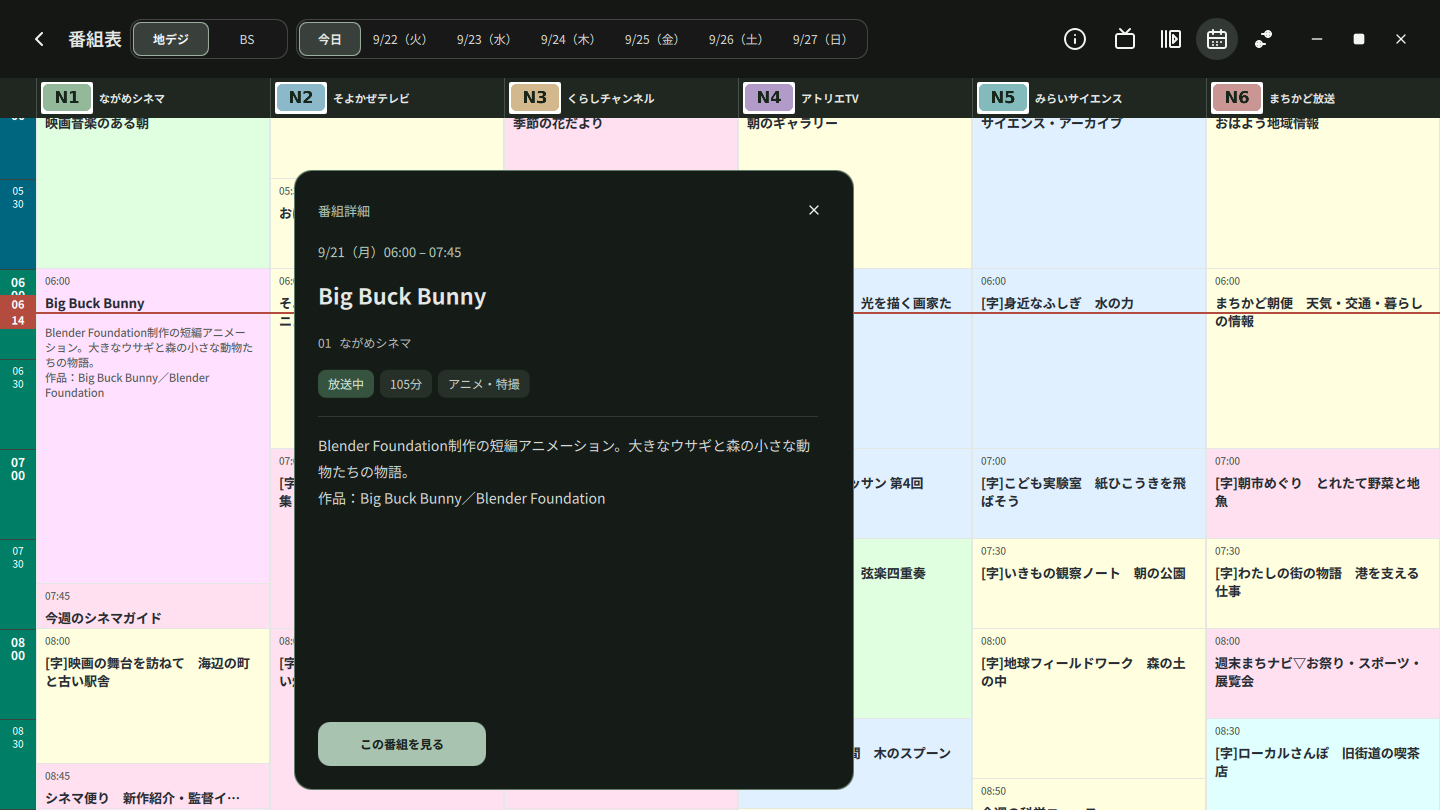
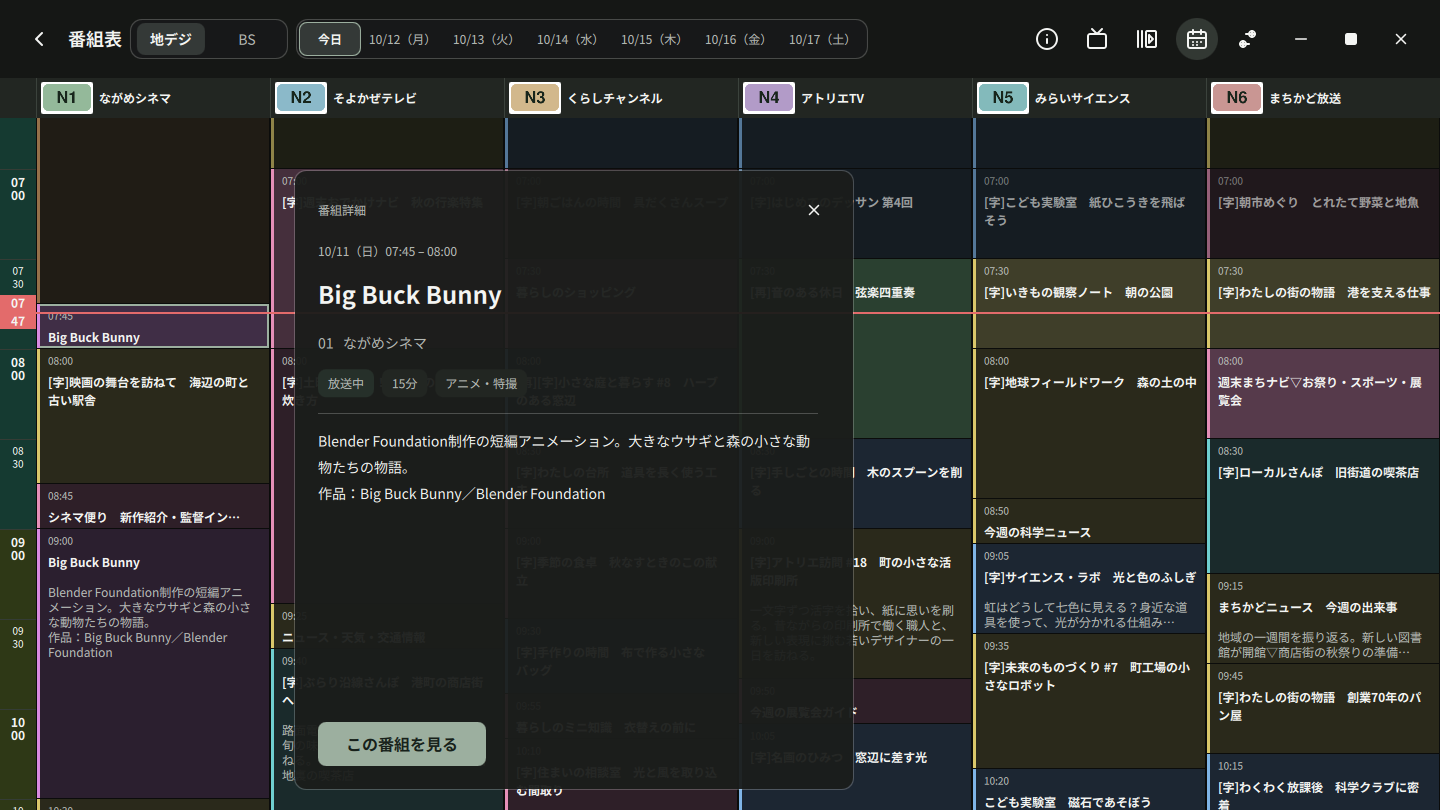
Bring the program guide onto the dark application surfaces
The guide was the only screen with light program cells, so opening it
from playback, recordings or settings changed the brightness of the
whole window, which is harsh during evening viewing. Keep each genre's
conventional hue as a bright marker on a dark tint of the same hue, and
darken the time bands the same way.

The grid also gave no cue about time: programs that had ended looked the
same as those on air. Brighten programs on air and let finished ones
recede, derived from the minute so the per-second clock does not
re-evaluate every cell.

After scrolling there was no way back to the current time short of
switching days. Choosing the day already shown now returns to its
opening position.

This departs from the light Mirakurun-style palette in the Penpot guide
frames, which have not been updated; docs/guide-calendar.md records the
difference. The two guide screenshots are recaptured to match.

diff --git a/rust/qml/GuideTimeline.qml b/rust/qml/GuideTimeline.qml
@@ -47,6 +47,8 @@ Item {
     readonly property int timeBandHours: 3
     readonly property var timeBandColors: GuidePalette.timeBands
     property double now: Date.now()
+    // Cell states follow the minute; the per-second clock would re-evaluate every cell.
+    readonly property double currentMinute: Math.floor(now / 60000) * 60000
     readonly property bool today: now >= dayStart && now < dayEnd
     readonly property real currentTimeY: channelHeaderHeight + (now - dayStart) / 60000 * pixelsPerMinute
     // Boundary bindings can update separately during a date change.
@@ -123,6 +125,10 @@ Item {
     function genreColor(genre) {
         const colors = GuidePalette.genres
         return Number.isInteger(genre) && genre >= 0 && genre < colors.length ? colors[genre] : GuidePalette.defaultGenre
+    }
+    function genreMarker(genre) {
+        const colors = GuidePalette.genreMarkers
+        return Number.isInteger(genre) && genre >= 0 && genre < colors.length ? colors[genre] : GuidePalette.defaultMarker
     }
     function scrollHorizontally(event) {
         const delta = event.angleDelta.y || event.angleDelta.x
@@ -305,7 +311,17 @@ Item {
                                     : slot.name || qsTranslate("Viewer", "No program information")
                                 width: slot.width; height: slot.height
                                 clip: true
-                                color: root.genreColor(slot.genre)
+                                readonly property bool onAir: slot.begin <= root.currentMinute && root.currentMinute < slot.end
+                                readonly property bool finished: slot.end <= root.currentMinute
+                                readonly property color genreFill: root.genreColor(slot.genre)
+                                color: cellPointer.containsMouse ? Qt.lighter(genreFill, GuidePalette.onAirLightness * GuidePalette.hoverLightness)
+                                    : onAir ? Qt.lighter(genreFill, GuidePalette.onAirLightness) : genreFill
+                                opacity: finished && !highlighted ? GuidePalette.finishedOpacity : 1
+                                Rectangle {
+                                    objectName: "guideGenreMarker"
+                                    width: GuidePalette.markerWidth; height: parent.height
+                                    color: root.genreMarker(slot.genre)
+                                }
                                 readonly property bool highlighted: (!!root.selectedProgram && slot.watchKey === root.selectedProgram.watchKey)
                                     || (root.activeFocus && column.index === root.cursorColumn && root.cursorKey.length > 0 && slot.watchKey === root.cursorKey)
                                 border.width: highlighted ? 2 : 0
@@ -314,8 +330,8 @@ Item {
                                     objectName: "guideShortProgram"
                                     font.family: root.programFontFamily
                                     visible: cell.layoutMode === GuideTimeline.OneLine
-                                    x: root.cellPadding - root.textSpacing
-                                    width: parent.width - x * 2; height: parent.height
+                                    x: root.cellPadding + GuidePalette.markerWidth - root.textSpacing
+                                    width: parent.width - x - root.cellPadding; height: parent.height
                                     text: cell.startLabel + " " + cell.title
                                     textFormat: Text.PlainText; elide: Text.ElideRight
                                     color: GuidePalette.programText; font.pixelSize: Theme.fontCaption; font.weight: Font.Medium
@@ -324,7 +340,7 @@ Item {
                                 Item {
                                     visible: cell.layoutMode === GuideTimeline.Full
                                     anchors.fill: parent
-                                    anchors.leftMargin: root.cellPadding; anchors.rightMargin: root.cellPadding
+                                    anchors.leftMargin: root.cellPadding + GuidePalette.markerWidth; anchors.rightMargin: root.cellPadding
                                     anchors.topMargin: root.cellTopPadding; anchors.bottomMargin: root.cellTopPadding
                                     Text {
                                         id: startLabel
@@ -358,7 +374,7 @@ Item {
                                         maximumLineCount: Math.max(1, Math.floor(height / descriptionLineHeight))
                                     }
                                 }
-                                MouseArea { anchors.fill: parent; onClicked: {
+                                MouseArea { id: cellPointer; anchors.fill: parent; hoverEnabled: true; onClicked: {
                                     root.cursorColumn = column.index
                                     root.cursorKey = slot.watchKey
                                     root.cursorTime = slot.begin

diff --git a/rust/qml/tests/tst_ProgramGuide.qml b/rust/qml/tests/tst_ProgramGuide.qml
@@ -374,6 +374,31 @@ TestCase {
         timeline.now = timeline.dayStart - 1
         verify(!badge.visible)
     }
+    function test_selected_day_returns_to_opening_position() {
+        const view = findChild(guide, "guideTimeline")
+        const timeline = view.parent
+        const selector = findChild(guide, "guideDay")
+        timeline.now = timeline.dayStart + 12 * 3600000
+        timeline.resetPosition()
+        const opening = view.contentY
+        verify(opening > 0)
+        view.contentY = 0
+        selector.forceActiveFocus()
+        keyClick(Qt.Key_Return)
+        compare(view.contentY, opening)
+        compare(guide.dayOffset, 0)
+        selector.compact = true
+        verify(waitForRendering(selector))
+        view.contentY = 0
+        mouseClick(findChild(selector, "currentGuideDay"))
+        compare(view.contentY, opening)
+        selector.compact = false
+        verify(waitForRendering(selector))
+        view.contentY = 0
+        mouseClick(findChild(selector, "guideDate0"))
+        compare(view.contentY, opening)
+        compare(guide.dayOffset, 0)
+    }
     function test_seven_calendar_days_and_selection() {
         compare(guide.days.length, 7)
         verify(guide.requests.length > 0)
@@ -734,10 +759,26 @@ TestCase {
         compare(findChild(guide, "guideColumn29"), null)
         const first = findChild(guide, "guideCell")
         verify(first !== null)
-        compare(first.color, "#ffffe0")
-        compare(list.parent.genreColor(15), "#f0f0f0")
-        compare(list.parent.genreColor(undefined), "#f0f0f0")
-        compare(list.parent.genreColor(null), "#f0f0f0")
+        compare(first.genreFill, "#2a291b")
+        compare(findChild(first, "guideGenreMarker").color, "#d9c76a")
+        verify(!first.onAir)
+        verify(!first.finished)
+        compare(first.opacity, 1)
+        const timeline = list.parent
+        timeline.now = guide.days[1].start + 90000
+        verify(first.onAir)
+        verify(!first.finished)
+        timeline.now = guide.days[1].start + 3600000
+        verify(!first.onAir)
+        verify(first.finished)
+        compare(first.opacity, 0.6)
+        timeline.now = guide.days[1].start - 1
+        verify(!first.onAir)
+        compare(first.opacity, 1)
+        compare(list.parent.genreColor(15), "#1f221f")
+        compare(list.parent.genreColor(undefined), "#1f221f")
+        compare(list.parent.genreColor(null), "#1f221f")
+        compare(list.parent.genreMarker(15), "#8c918c")
         mouseClick(first, 20, 30)
         const loader = findChild(guide, "scheduledDetailsLoader")
         verify(loader.item !== null)

diff --git a/rust/qml/GuidePalette.qml b/rust/qml/GuidePalette.qml
@@ -1,14 +1,22 @@
 pragma Singleton
 import QtQuick
 
-// Broadcast genre and time-band colors carry information, independently of
-// the application's dark control palette. Keep text contrast with these cells.
+// Broadcast genre and time-band colors carry information. Each genre keeps its
+// conventional hue as a saturated marker over a dark tint of the same hue, so
+// the guide shares the application's dark surfaces without losing the genre.
 QtObject {
-    readonly property var timeBands: ["#00337f", "#00667f", "#007f66", "#667f00", "#7f6600", "#7f3300", "#7f0066", "#66007f"]
-    readonly property var genres: ["#ffffe0", "#e0e0ff", "#ffe0f0", "#ffe0e0", "#e0ffe0", "#e0ffff", "#fff0e0", "#ffe0ff", "#ffffe0", "#fff0e0", "#e0f0ff", "#e0f0ff"]
-    readonly property color defaultGenre: "#f0f0f0"
-    readonly property color programText: "#252a31"
-    readonly property color programSecondary: "#4e5651"
-    readonly property color cellDivider: "#e4e7e4"
+    readonly property var timeBands: ["#172340", "#15303b", "#153a31", "#2e3816", "#3a3016", "#3b2517", "#391731", "#2e183b"]
+    readonly property var genres: ["#2a291b", "#1f2135", "#2e1f28", "#2f2020", "#1c2b20", "#1a2a2b", "#2e261c", "#2b1f2f", "#2a291b", "#2e261c", "#1c2632", "#1c2632"]
+    readonly property var genreMarkers: ["#d9c76a", "#9299ea", "#e58fb8", "#e98a8a", "#7fcf8f", "#6fcfd0", "#e3a96c", "#d98ae0", "#d9c76a", "#e3a96c", "#7fb4e6", "#7fb4e6"]
+    readonly property color defaultGenre: "#1f221f"
+    readonly property color defaultMarker: "#8c918c"
+    readonly property color programText: "#f4f5f3"
+    readonly property color programSecondary: "#b6bab6"
+    readonly property color cellDivider: "#0b0c0b"
     readonly property color logoBackground: "#ffffff"
+    // Programs on air stand out from the schedule; finished ones recede.
+    readonly property real onAirLightness: 1.5
+    readonly property real hoverLightness: 1.25
+    readonly property real finishedOpacity: 0.6
+    readonly property int markerWidth: 3
 }

diff --git a/rust/qml/GuideDateSelector.qml b/rust/qml/GuideDateSelector.qml
@@ -12,13 +12,15 @@ SegmentedFrame {
     property string uiLanguage: Qt.uiLanguage
     readonly property var dateLocale: Qt.locale(uiLanguage)
     signal selected(int index)
+    // Choosing the day already shown asks the owner to return to its opening position.
+    signal currentRequested
     implicitWidth: compact ? 202 : 572
     implicitHeight: 40
     clip: true
     activeFocusOnTab: true
     function selectDay(index) {
-        if (index >= 0 && index < days.length && index !== currentIndex)
-            selected(index)
+        if (index === currentIndex) currentRequested()
+        else if (index >= 0 && index < days.length) selected(index)
     }
     function itemX(index) { return 3 + (index === 0 ? 0 : 62 + (index - 1) * 84) }
     function itemWidth(index) { return index === 0 ? 62 : 84 }
@@ -44,6 +46,8 @@ SegmentedFrame {
     Keys.onRightPressed: selectDay(currentIndex + 1)
     Keys.onDownPressed: selectDay(currentIndex + 1)
     Keys.onUpPressed: selectDay(currentIndex - 1)
+    Keys.onReturnPressed: currentRequested()
+    Keys.onEnterPressed: currentRequested()
     Flickable {
         id: flick
         objectName: "guideDateFlick"
@@ -78,6 +82,12 @@ SegmentedFrame {
     }
     Item {
         anchors.fill: parent; visible: root.compact
+        MouseArea {
+            objectName: "currentGuideDay"
+            anchors.fill: parent
+            cursorShape: Qt.PointingHandCursor
+            onClicked: root.currentRequested()
+        }
         Label { id: compactLabel; anchors.centerIn: parent; text: root.label(root.currentIndex); color: Theme.textPrimary; font.pixelSize: Theme.fontCaption; font.bold: true }
         SequentialAnimation {
             id: fade

diff --git a/rust/qml/GuideToolbar.qml b/rust/qml/GuideToolbar.qml
@@ -18,6 +18,7 @@ Rectangle {
     signal modeRequested(int mode)
     signal bandRequested(string band)
     signal dayRequested(int index)
+    signal currentDayRequested
     readonly property real singleRowHeight: navigation.headerHeight
     readonly property real secondRowHeight: 44
     readonly property real sideMargin: navigation.edgeMargin
@@ -77,6 +78,7 @@ Rectangle {
             compact: filters.width < root.bandWidth + root.expandedDateWidth
             iconDirectory: root.iconDirectory
             onSelected: function(index) { root.dayRequested(index) }
+            onCurrentRequested: root.currentDayRequested()
         }
         Item { Layout.fillWidth: true }
     }

diff --git a/rust/qml/ProgramGuide.qml b/rust/qml/ProgramGuide.qml
@@ -97,6 +97,7 @@ Rectangle {
             onCloseRequested: root.closeRequested()
             onModeRequested: function(mode) { root.modeRequested(mode) }
             onDayRequested: function(index) { root.dayOffset = index }
+            onCurrentDayRequested: timeline.resetPosition()
             onBandRequested: function(band) { root.band = band; root.selectedProgram = null }
         }
         GuideTimeline {

diff --git a/docs/publicity.md b/docs/publicity.md
@@ -30,6 +30,7 @@ Releaseや紹介記事の書き出し:
 ## 撮影条件
 
 - 2026-09-21、アプリのコミット `6dc5352eba02562e41471e986c77be6d00d42d6d` を撮影。
+  `guide.png`と`guide-details.png`は、番組表の暗い配色を反映するため2026-10-11に同じ手順で再撮影。
 - 製品の`build/nagametv`と`Main.qml`をそのまま使用。製品コードの変更はありません。
 - UbuntuのWorkshop、Qt Quick / GStreamer、NVIDIA GeForce RTX 4070 Ti。
 - [専用GUI環境](gui-test-environment.md)で画面・実GPU・仮想音声を検証してから起動。

diff --git a/docs/media/README.md b/docs/media/README.md
@@ -1,6 +1,7 @@
 # ながめTVのスクリーンショット
 
 画像は1440×810の実際のアプリ画面です。2026-09-21の最新版で撮影しました。
+番組表の2枚は、配色の変更に合わせて2026-10-11に再撮影しています。
 局名・ロゴ・番組編成は撮影用の架空のデータで、サンプル映像の番組名は作品名を表示しています。
 ローカルの撮影用配信元と、下記の再配布可能な映像を使用しました。
 
